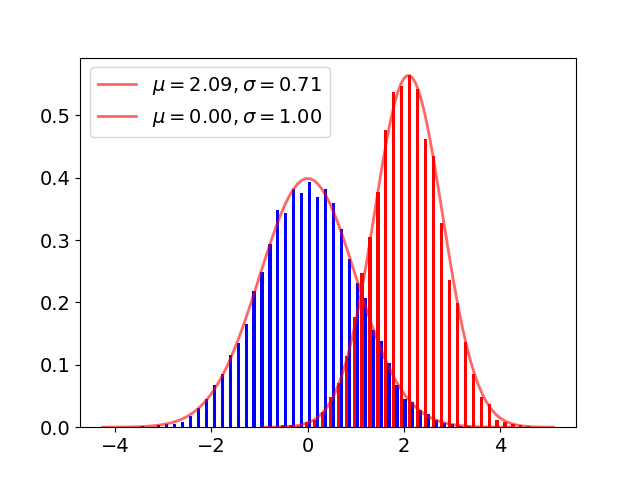
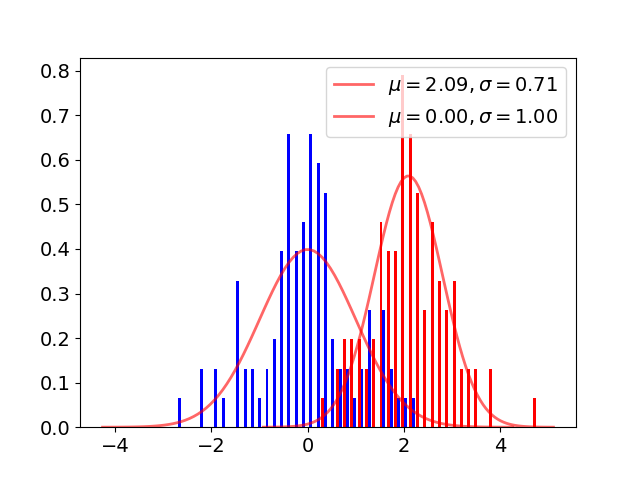
add hW02

diff --git a/HW02/siyuj-hw02.py b/HW02/siyuj-hw02.py
@@ -9,7 +9,7 @@ import operator
 import math
 
 # Number of training point
-m=10000
+m=100
 
 # generate the sigma and the mu for the random generator
 mu_1=2.0*math.pi/3.0
